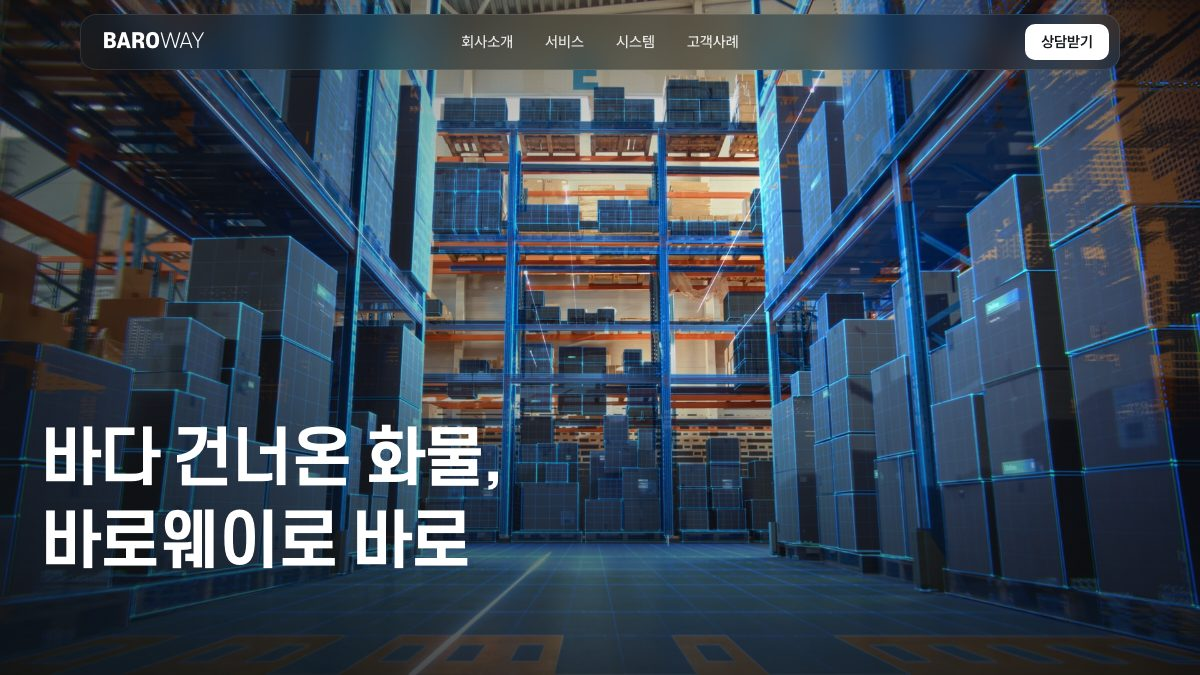
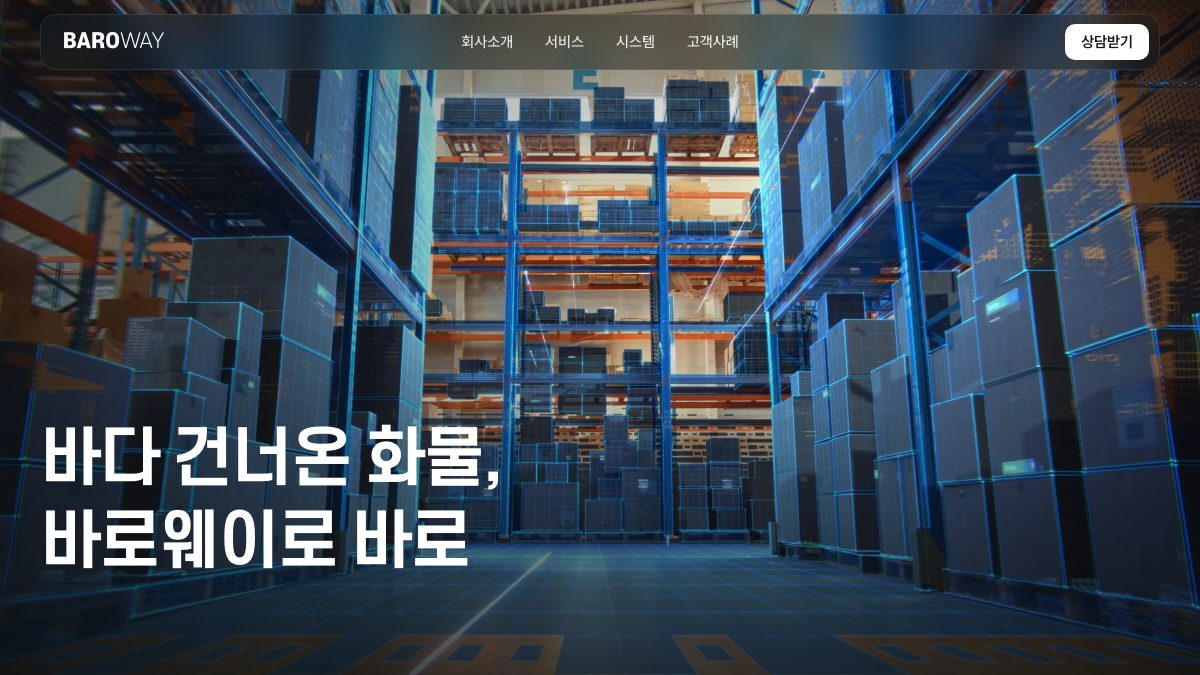
38.BAROWAY 수정: GNB 너비를 본문 콘텐츠 너비(1200px + 좌우 여백)에 맞춤, 썸네일 갱신

Changed region(s): [[0.8325, 0.0311, 0.9558, 0.0933], [0.0308, 0.0311, 0.1542, 0.0933]]

diff --git a/ai-landingpage/물류·유통/38.BAROWAY/styles.css b/ai-landingpage/물류·유통/38.BAROWAY/styles.css
@@ -71,7 +71,7 @@ h1,h2,h3,p,dl,dd{margin:0}
    GNB (floating pill)
    ========================================================= */
 .gnb{position:fixed;left:0;right:0;top:14px;z-index:50;padding:0 var(--pad);pointer-events:none}
-.gnb__bar{position:relative;pointer-events:auto;max-width:1040px;margin:0 auto;height:var(--gnb-h);display:flex;align-items:center;gap:36px;padding:0 10px 0 22px;border-radius:16px;
+.gnb__bar{position:relative;pointer-events:auto;max-width:var(--wrap);margin:0 auto;height:var(--gnb-h);display:flex;align-items:center;gap:36px;padding:0 10px 0 22px;border-radius:16px;
   background:rgba(20,26,28,.42);border:1px solid rgba(255,255,255,.1);color:#fff;
   backdrop-filter:blur(16px) saturate(140%);-webkit-backdrop-filter:blur(16px) saturate(140%);
   transition:background-color .4s var(--ease),color .4s var(--ease),border-color .4s var(--ease)}

diff --git a/ai-landingpage/물류·유통/38.BAROWAY/index.html b/ai-landingpage/물류·유통/38.BAROWAY/index.html
@@ -8,7 +8,7 @@
 <link rel="preconnect" href="https://cdn.jsdelivr.net" crossorigin>
 <link rel="stylesheet" href="https://cdn.jsdelivr.net/gh/orioncactus/pretendard@v1.3.9/dist/web/variable/pretendardvariable-dynamic-subset.min.css">
 <link rel="preload" href="fonts/SCoreDream-6Bold.woff2" as="font" type="font/woff2" crossorigin>
-<link rel="stylesheet" href="styles.css?v=7">
+<link rel="stylesheet" href="styles.css?v=8">
 </head>
 <body>
 
